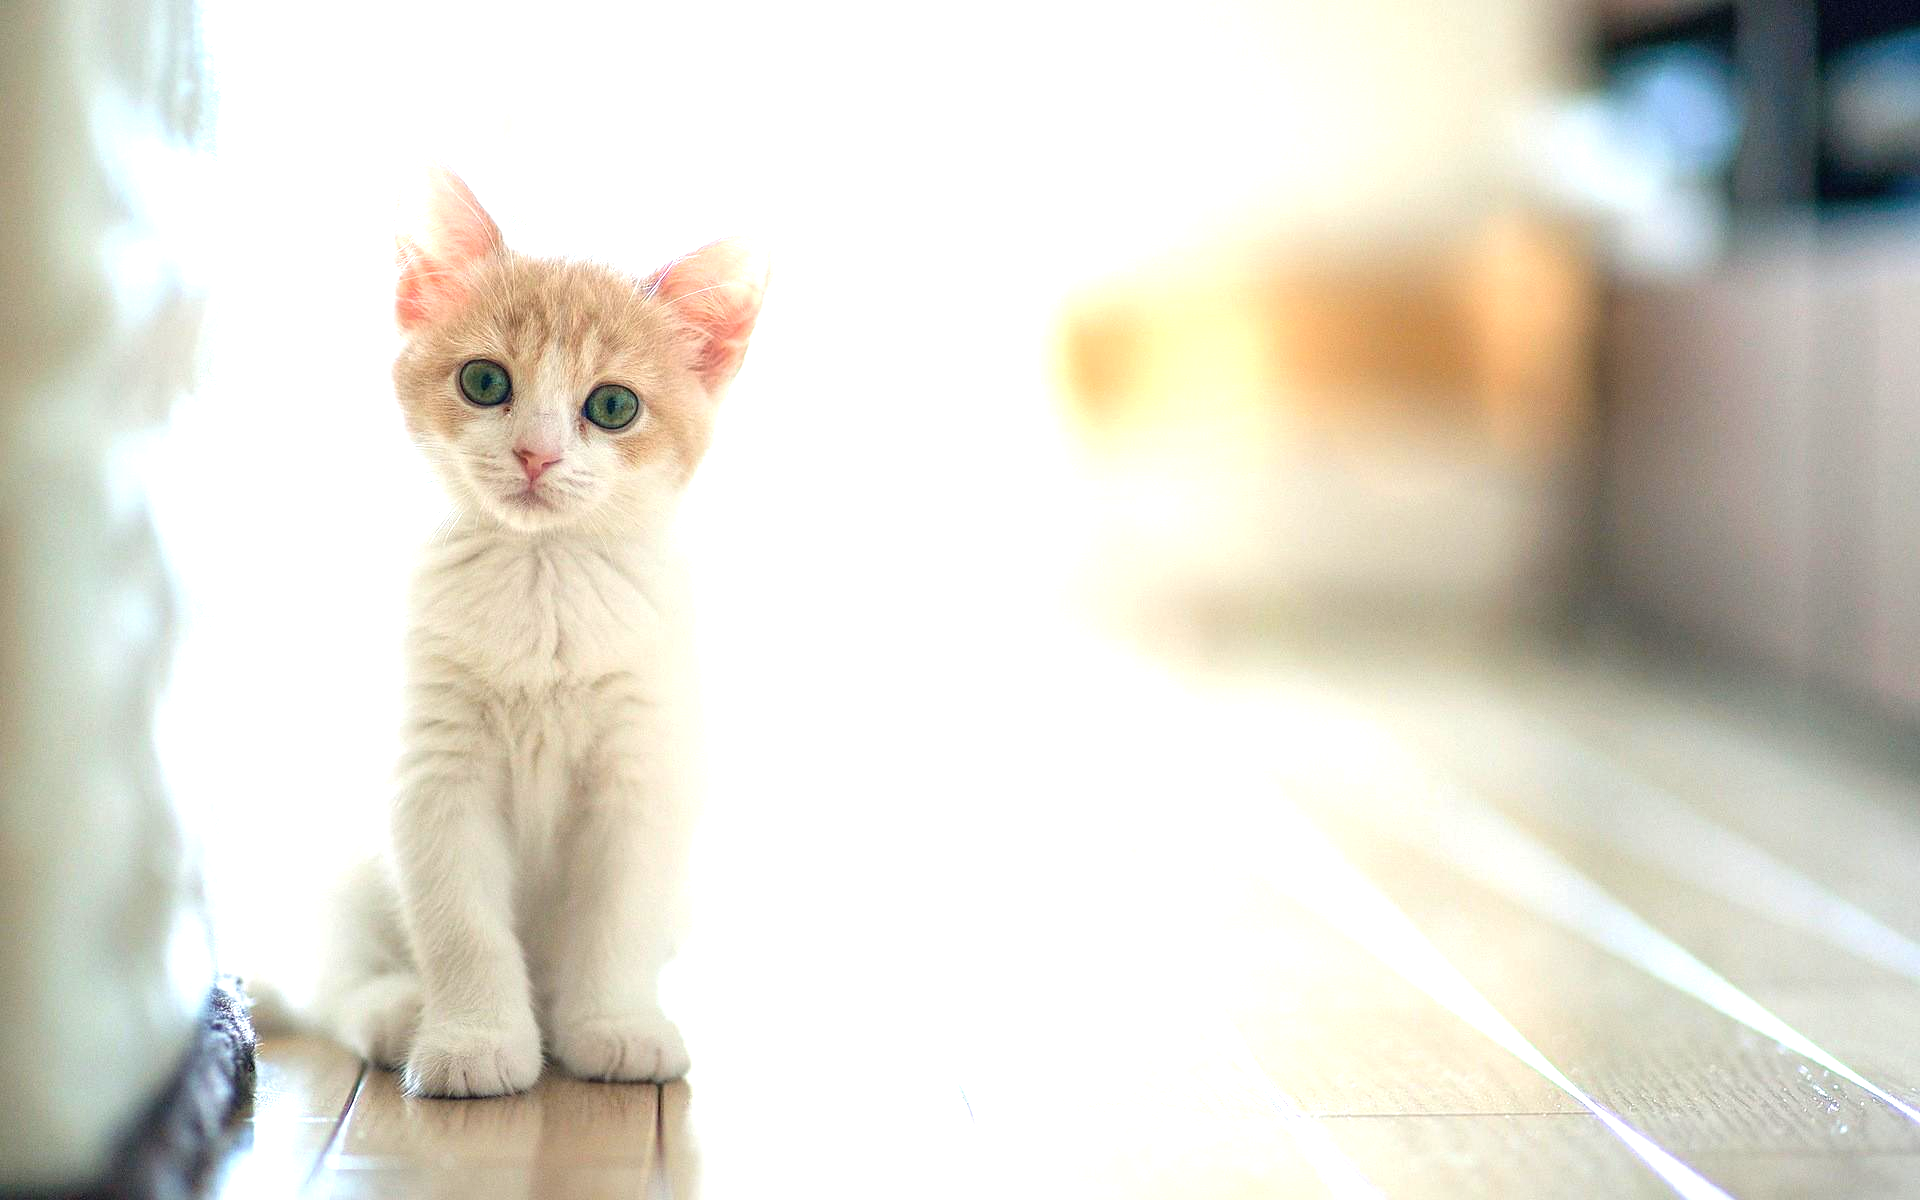
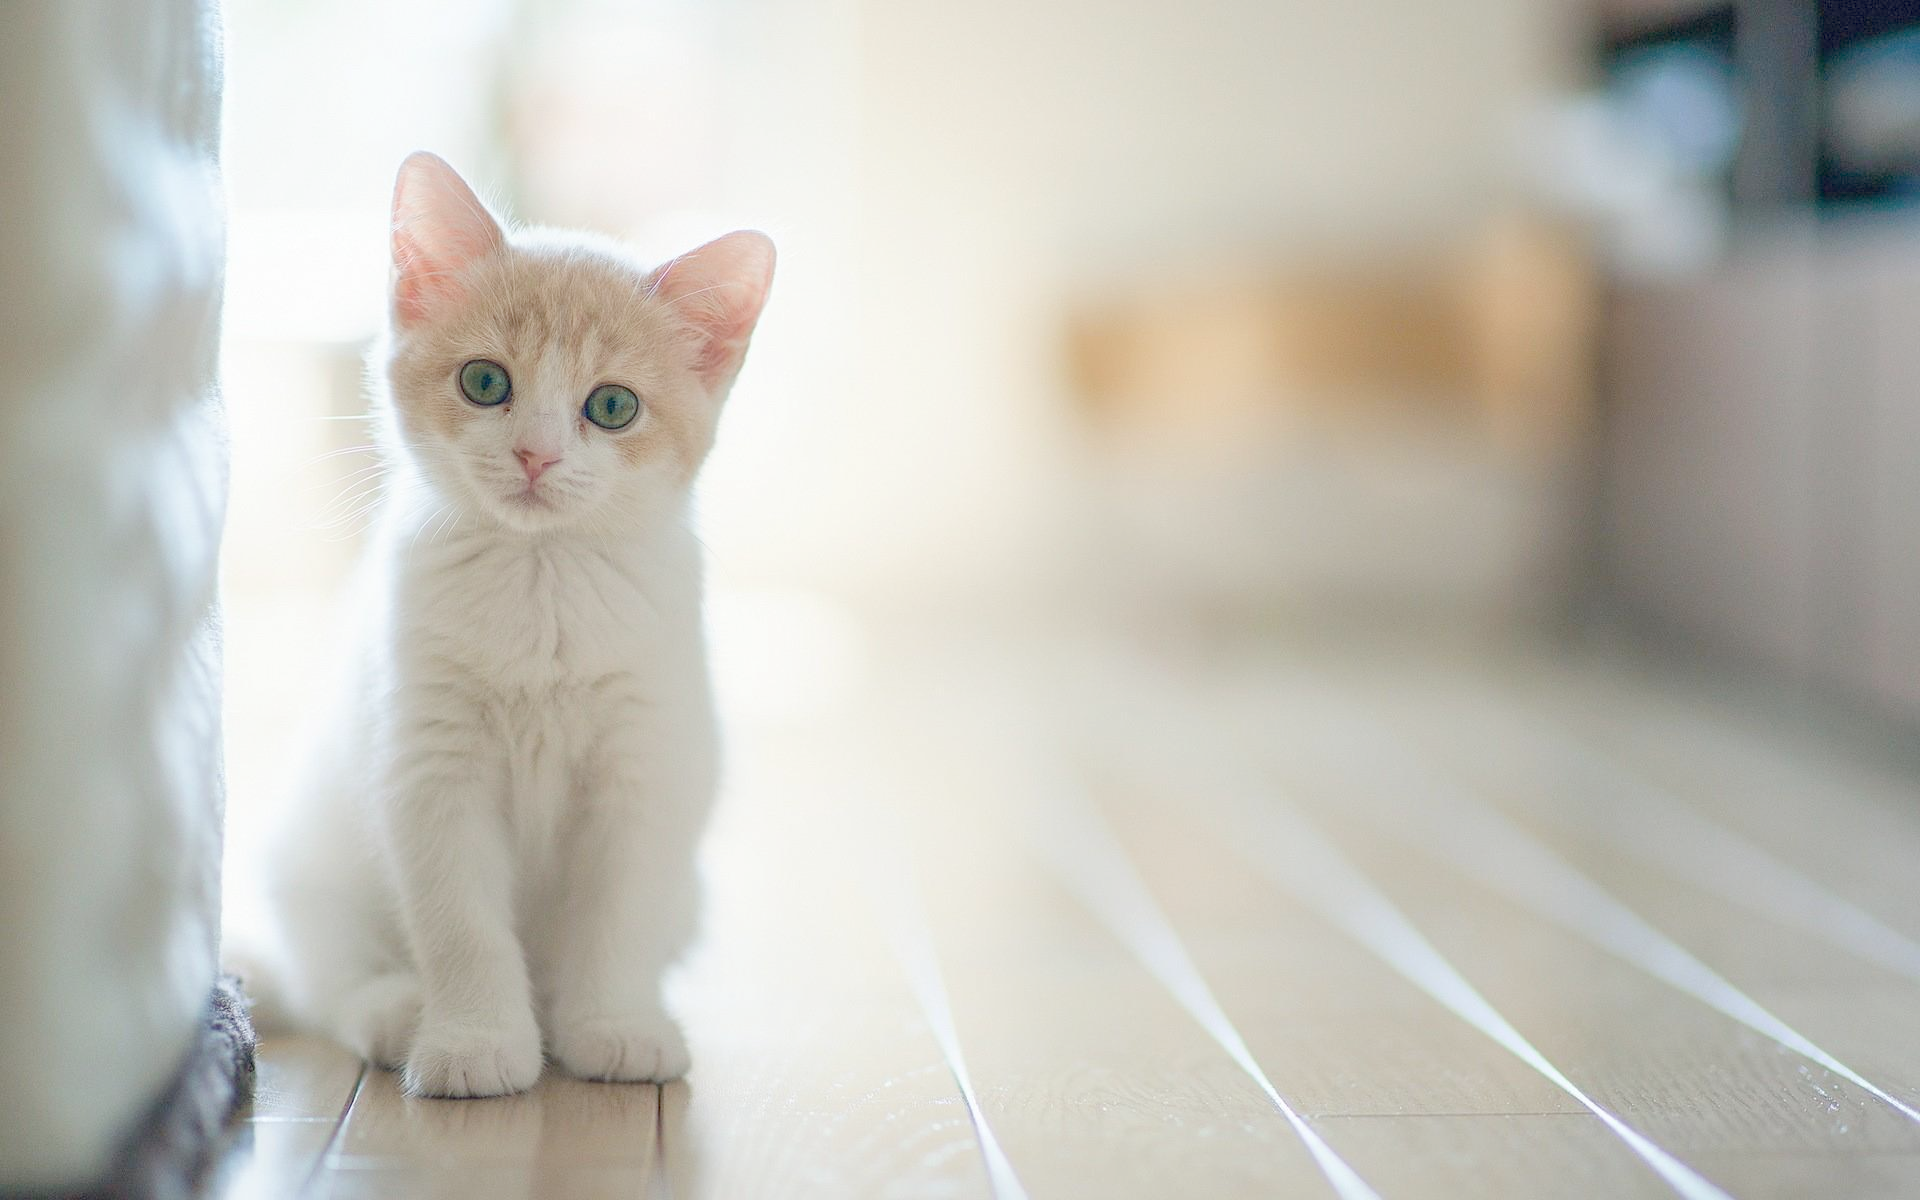
-

diff --git a/Image_Augmentation/image_augmentation.py b/Image_Augmentation/image_augmentation.py
@@ -30,7 +30,12 @@ def rotate_max_area(image, angle):
     wr, hr = rotatedRectWithMaxArea(image.shape[1], image.shape[0],
                                     math.radians(angle))
     rotated = rotate_bound(image, angle)
-    h, w, _ = rotated.shape
+    if len(image.shape)==3 :
+        h, w, _ = rotated.shape
+    elif len(image.shape)==2 :
+        h, w = rotated.shape
+    else:
+        raise Exception('Channel image error')
     y1 = h//2 - int(hr/2)
     y2 = y1 + int(hr)
     x1 = w//2 - int(wr/2)
@@ -121,11 +126,31 @@ def blur_image(img):
     return cv2.blur(img, (10,10))
 
 
-def contrast_brightness_control(img):
-    # new_pixel(i,j) = alpha * pixel(i,j) + beta
-    alpha = 1.5  #from 1.0-3.0
-    beta = 0  #from 0-100
-    return cv2.convertScaleAbs(img,alpha=alpha,beta=beta)
+def brightness_control(img, gamma=1.0):
+    # build a lookup table mapping the pixel values [0, 255] to their adjusted gamma values
+    #use gamma<1 to make image darker
+    #use gamma>1 to make image brighter
+    invGamma = 1.0 / gamma
+    table = np.array([((i / 255.0) ** invGamma) * 255
+        for i in np.arange(0, 256)]).astype("uint8")
+    # apply gamma correction using the lookup table
+    return cv2.LUT(img,table)
+
+def zoom_in(img,scale):
+    center_x, center_y = img.shape[1] / 2, img.shape[0] / 2
+    width_scaled, height_scaled = img.shape[1] * scale, img.shape[0] * scale
+    left_x, right_x = center_x - width_scaled / 2, center_x + width_scaled / 2
+    top_y, bottom_y = center_y - height_scaled / 2, center_y + height_scaled / 2
+    if len(img.shape)==3:
+        img_cropped = img[int(top_y):int(bottom_y), int(left_x):int(right_x),:]
+        h,w,_ = img.shape
+    elif len(img.shape)==2:
+        img_cropped = img[int(top_y):int(bottom_y), int(left_x):int(right_x)]
+        h,w = img.shape
+    else:
+        raise Exception('Channel image error')
+    zoom = cv2.resize(img_cropped,(w,h),interpolation = cv2.INTER_AREA)
+    return zoom
 
 #You can replace path with your own
 img_path = (glob.glob("/home/bang/Desktop/Image_Processing/Image_Augmentation/image/input_augmentation/*"))
@@ -148,5 +173,7 @@ for path in img_path:
     cv2.imwrite(os.path.join(output_dir,"output_add_noise_gauss.png"),img_add_noise_gauss)
     img_blur_image = blur_image(img)
     cv2.imwrite(os.path.join(output_dir,"output_blur_image.png"),img_blur_image)
-    img_contrast_brightness_control = contrast_brightness_control(img)
-    cv2.imwrite(os.path.join(output_dir,"output_contrast_brightness_control.png"),img_contrast_brightness_control)
+    img_brightness_control = brightness_control(img,gamma = 1.6)
+    cv2.imwrite(os.path.join(output_dir,"output_contrast_brightness_control.png"),img_brightness_control)
+    img_zoom = zoom_in(img,0.8)
+    cv2.imwrite(os.path.join(output_dir,"output_zoom_in.png"),img_zoom)

diff --git a/Image_Augmentation/README.md b/Image_Augmentation/README.md
@@ -14,5 +14,6 @@
 |vertical_flip()|flip image vertical|<img src="https://github.com/bangpc/Image_Processing/blob/master/Image_Augmentation/image/output_augmentation/output_vertical_flip.png" width="30%">|
 |noise_generator()|there are four type : **gaussian, s&p, poisson, speckle**. The output is gaussian type|<img src="https://github.com/bangpc/Image_Processing/blob/master/Image_Augmentation/image/output_augmentation/output_add_noise_gauss.png" width="30%">|
 |blur_image()|blur an image|<img src="https://github.com/bangpc/Image_Processing/blob/master/Image_Augmentation/image/output_augmentation/output_blur_image.png" width="30%">|
-|contrast_brightness_control()|change contrast and brightness|<img src="https://github.com/bangpc/Image_Processing/blob/master/Image_Augmentation/image/output_augmentation/output_contrast_brightness_control.png" width="30%">|
+|brightness_control()|change brightness of an image|<img src="https://github.com/bangpc/Image_Processing/blob/master/Image_Augmentation/image/output_augmentation/output_brightness_control.png" width="30%">|
+|zoom_in() | zoom in an image by scale|<img src="https://github.com/bangpc/Image_Processing/blob/master/Image_Augmentation/image/output_augmentation/output_zoom_in.png" width="30%">
 
